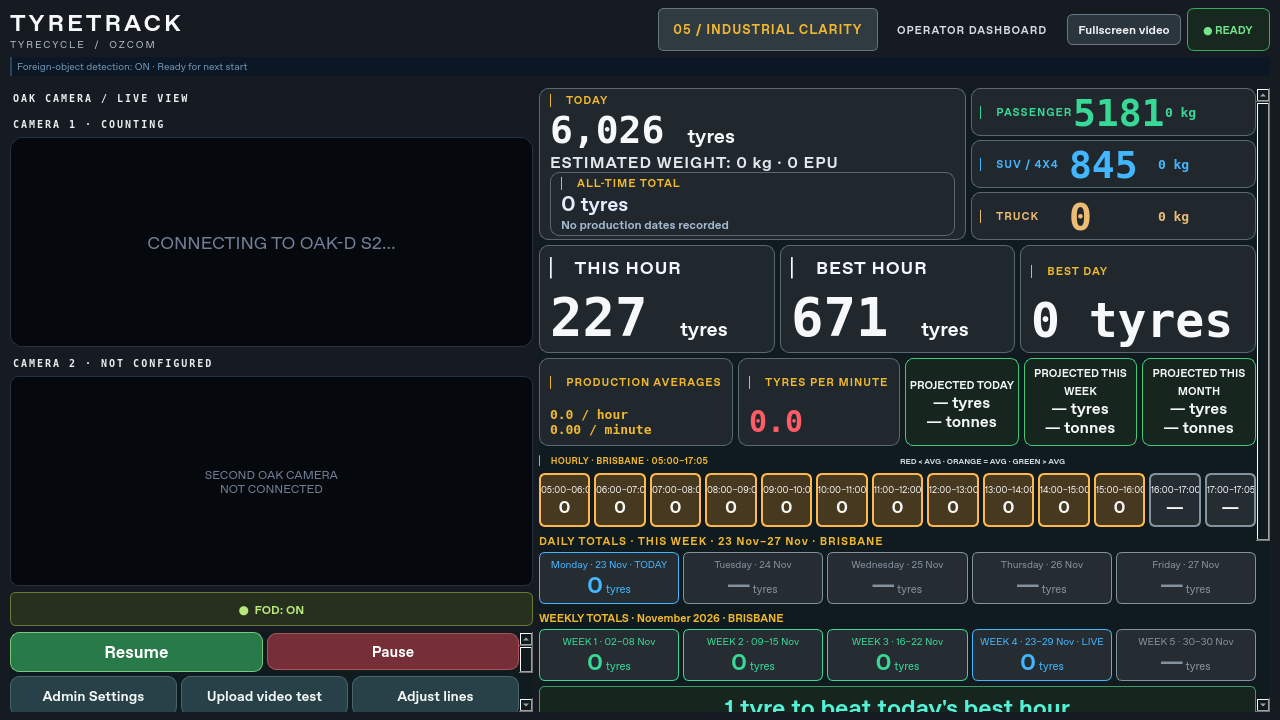
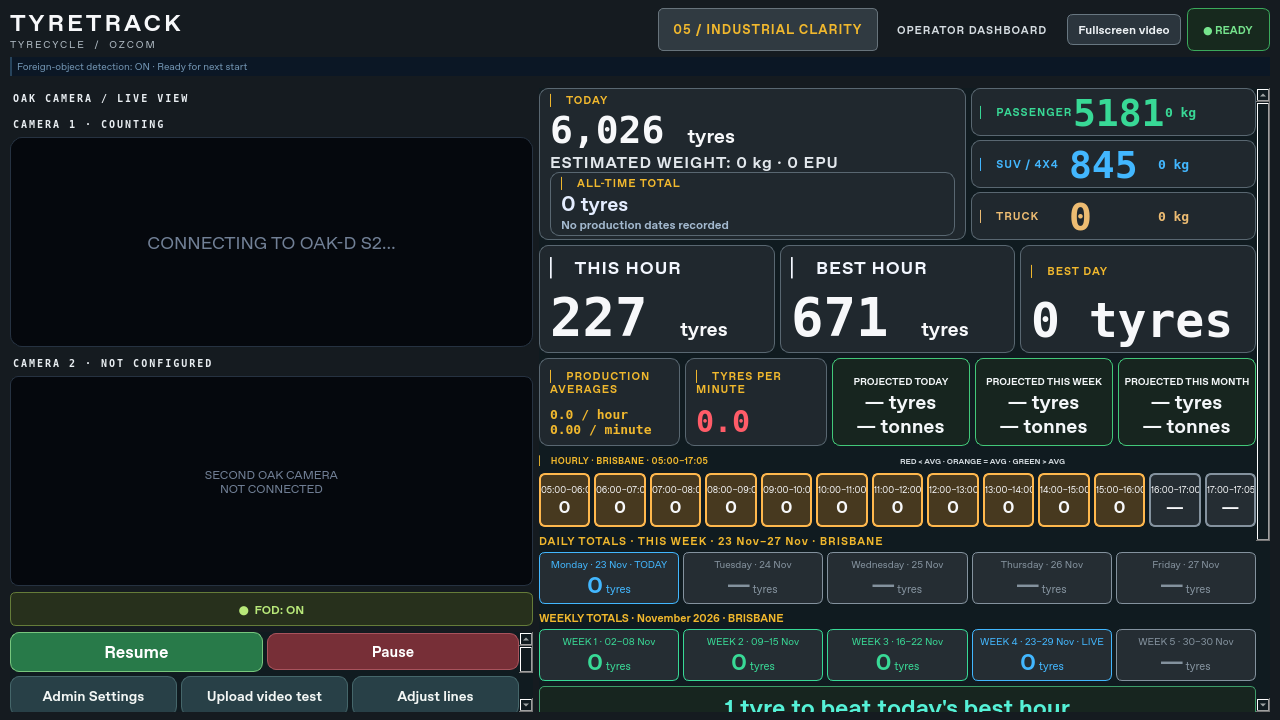
Add files via upload

Changed region(s): [[0.4375, 0.4889, 0.9688, 0.6111]]

diff --git a/month_week_dashboard_test.py b/month_week_dashboard_test.py
@@ -42,10 +42,13 @@ extra='''
     blocks=[b for b in w.dashboard_week_blocks if b.isVisible()]
     assert max(b.width() for b in blocks)-min(b.width() for b in blocks)<=1
     assert all(b.height()>=48 and b.width()>=120 for b in blocks)
-    from PyQt5.QtGui import QTextDocument
+    from PyQt5.QtGui import QTextDocument,QFont
     for label in w.projection_labels.values():
+     assert label.width()>=120,(style,width,height,label.width())
      document=QTextDocument();document.setDefaultFont(label.font());document.setHtml(label.text());document.setTextWidth(label.width()-8)
-     assert document.size().height()<=label.height(),(style,width,height,document.size().height(),label.height())
+     assert document.size().height()<=label.height(),(style,width,height,document.size().height(),label.height(),label.width(),label.font().toString())
+     inherited=QTextDocument();inherited.setDefaultFont(QFont('Segoe UI',40));inherited.setHtml(label.text());inherited.setTextWidth(label.width()-8)
+     assert inherited.size().height()<=label.height(), 'Card inherited an unrelated global font'
 '''
 assert needle in source;source=source.replace(needle,needle+extra)
 source=source.replace('weekday_dashboard_preview.png','month_week_dashboard_preview.png')

diff --git a/monthly_forecast.py b/monthly_forecast.py
@@ -58,3 +58,12 @@ def forecast_text(data,test_mode=False):
 def report_text(report):
     data=report.get('production_projections') or {'month':report.get('monthly_forecast')}
     return '\n\n'.join(forecast_text(data.get(period)) for period in ('day','week','month') if period in data)
+
+
+def projection_card_html(title, value, paused=False, font_px=16):
+    """Self-contained rich text: QLabel/QTextDocument inherited fonts may differ."""
+    from html import escape
+    lines=['TEST · PAUSED'] if paused else str(value).splitlines()
+    body='<br>'.join('<nobr>'+escape(line)+'</nobr>' for line in lines)
+    return (f'<div style="font-family:Segoe UI;font-size:{int(font_px)}px;font-weight:900">'
+            f'<span style="font-size:10px">PROJECTED {escape(title)}</span><br>{body}</div>')
